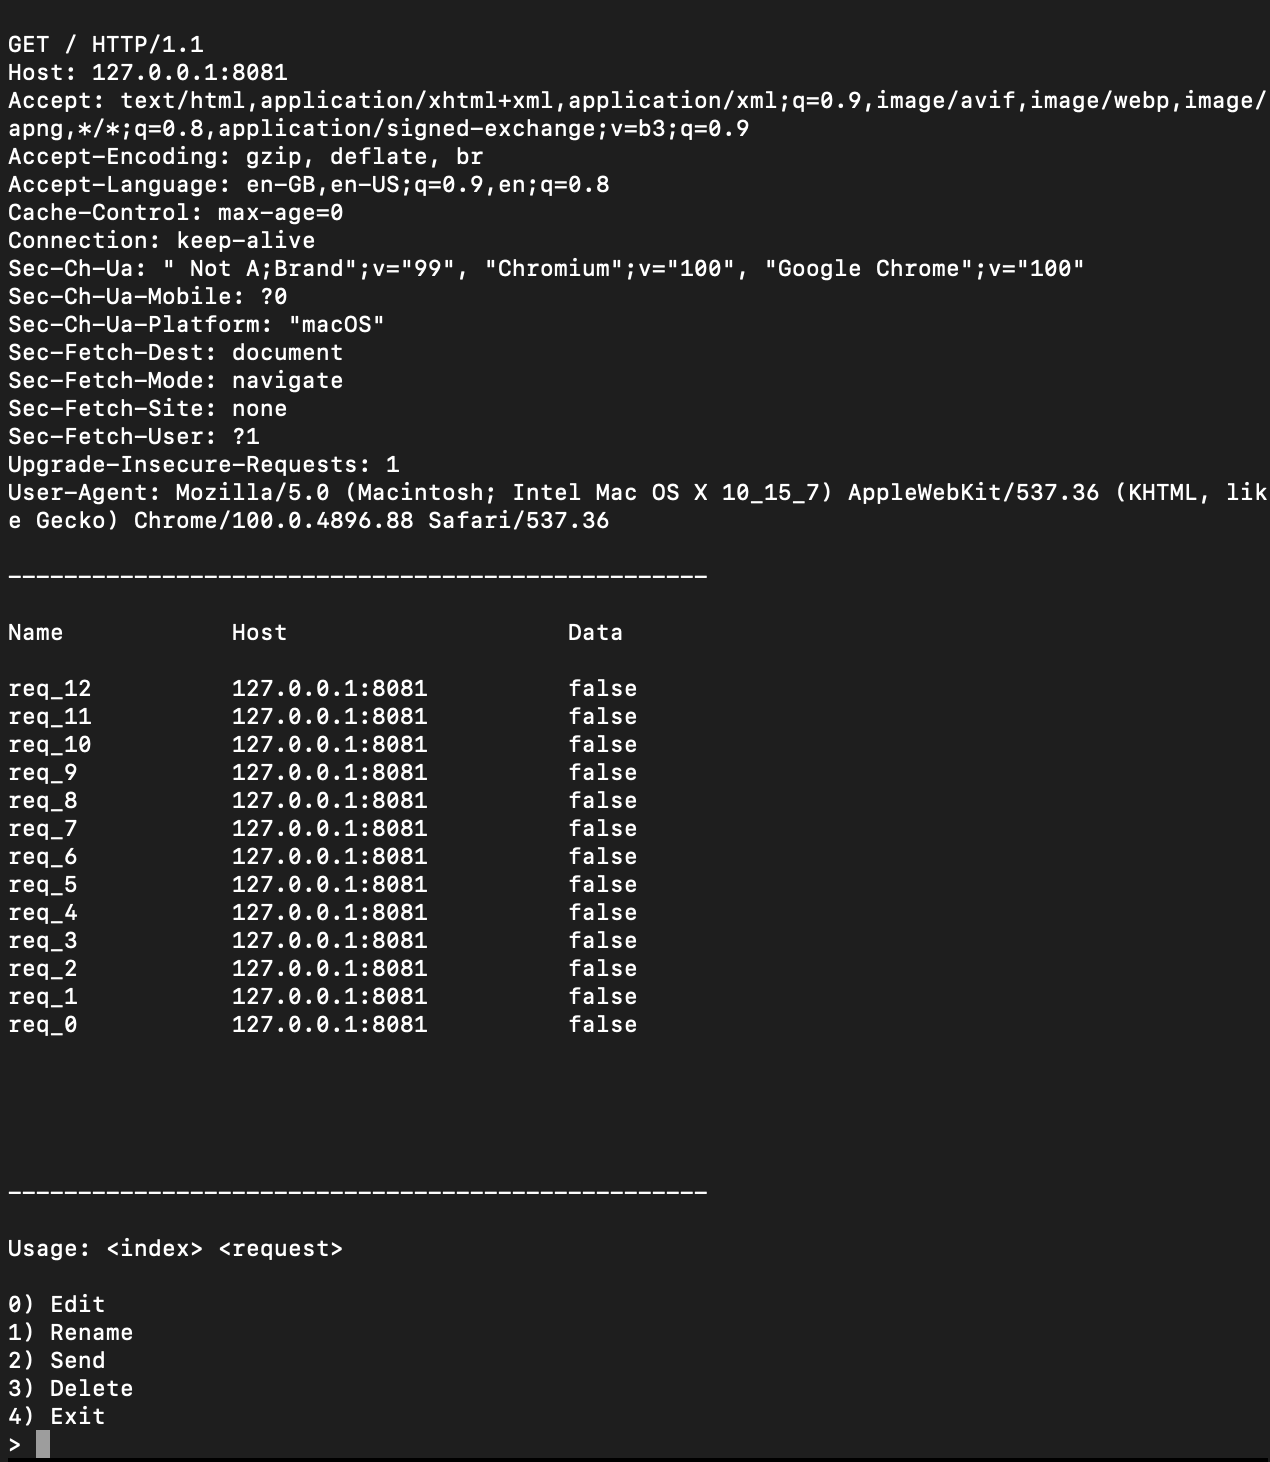
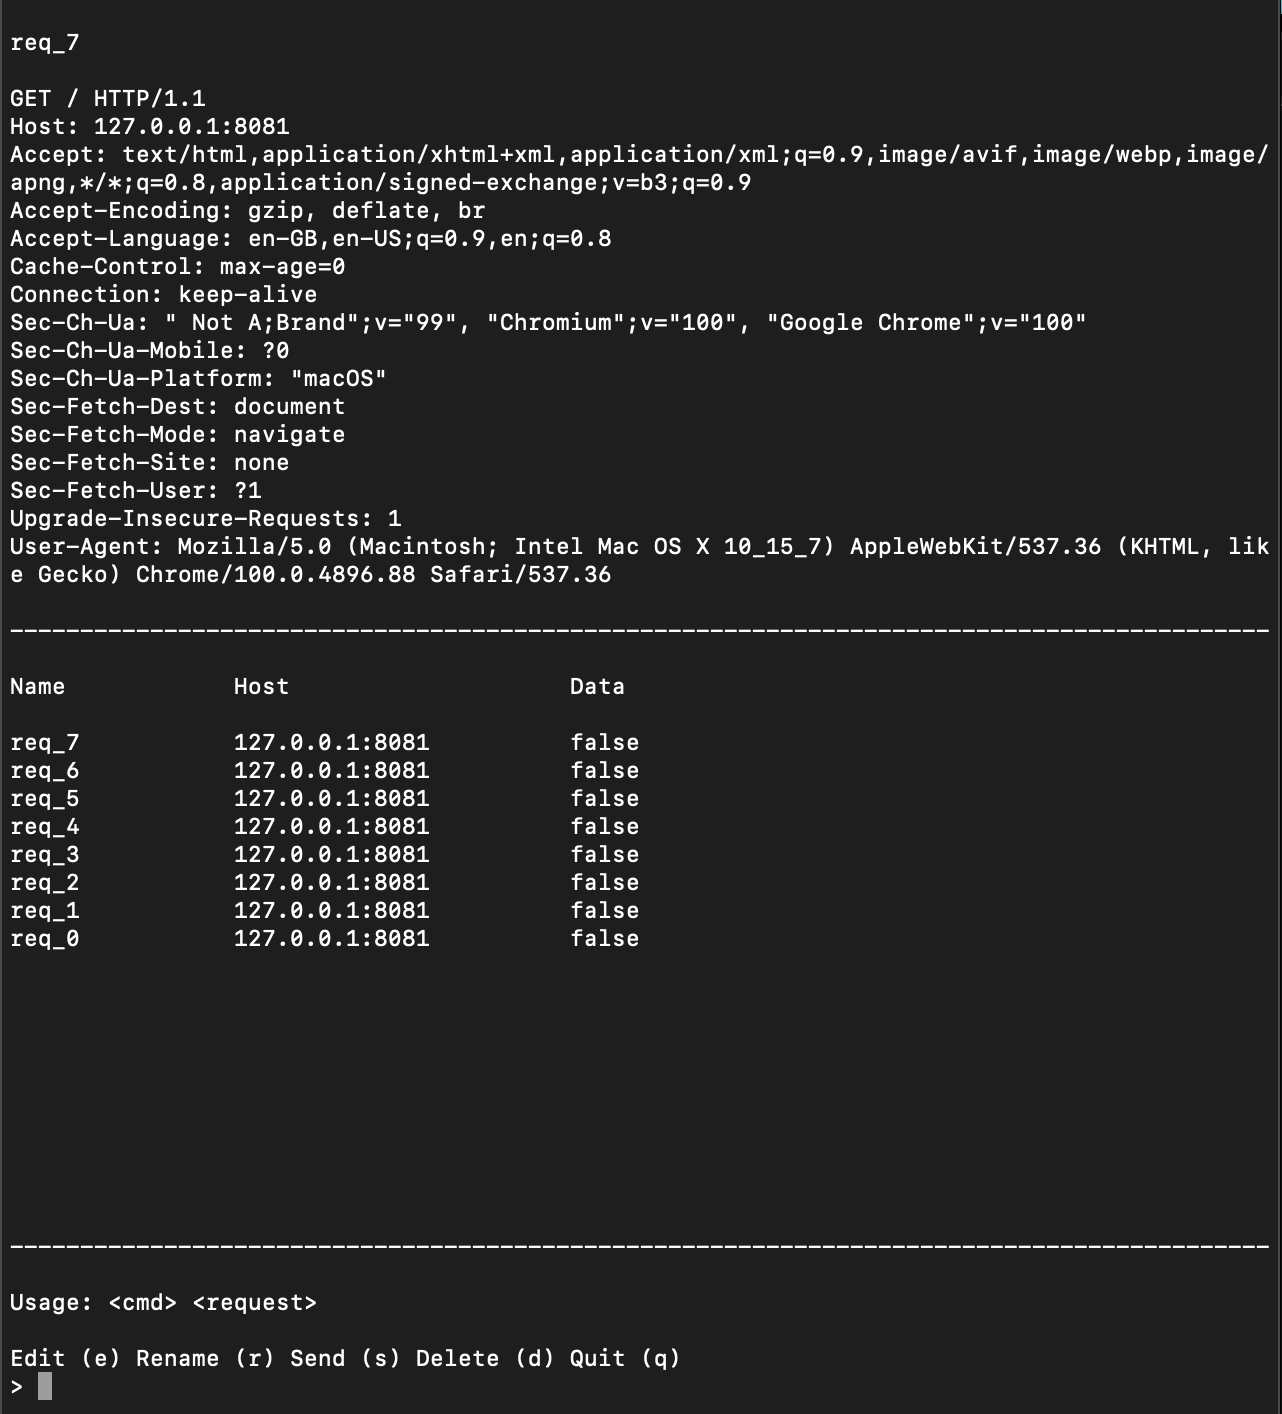
image

diff --git a/server/server.go b/server/server.go
@@ -282,7 +282,7 @@ func main() {
 	}
 
 	//Usage msg
-	usage_msg = "Usage: <index> <request>"
+	usage_msg = "Usage: <cmd> <request>"
 
 	start_time := time.Now().Format("10:00:00")
 	prog_name := "gowebgo"
